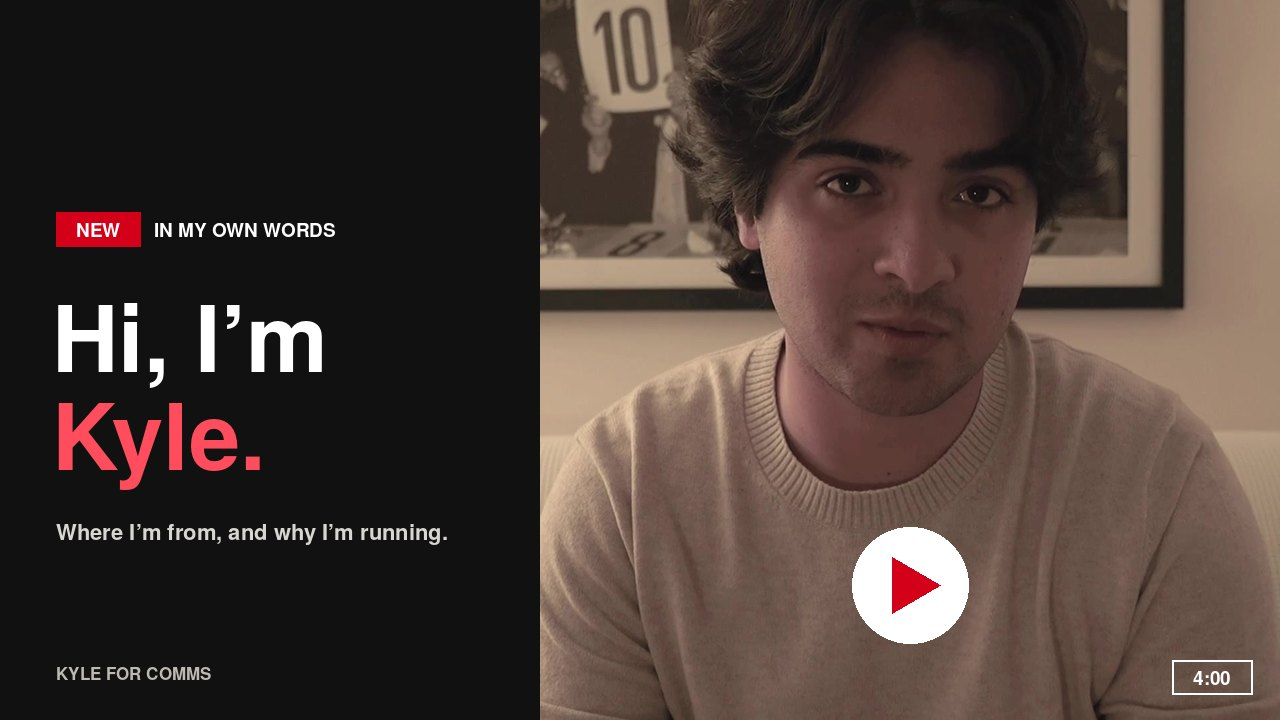
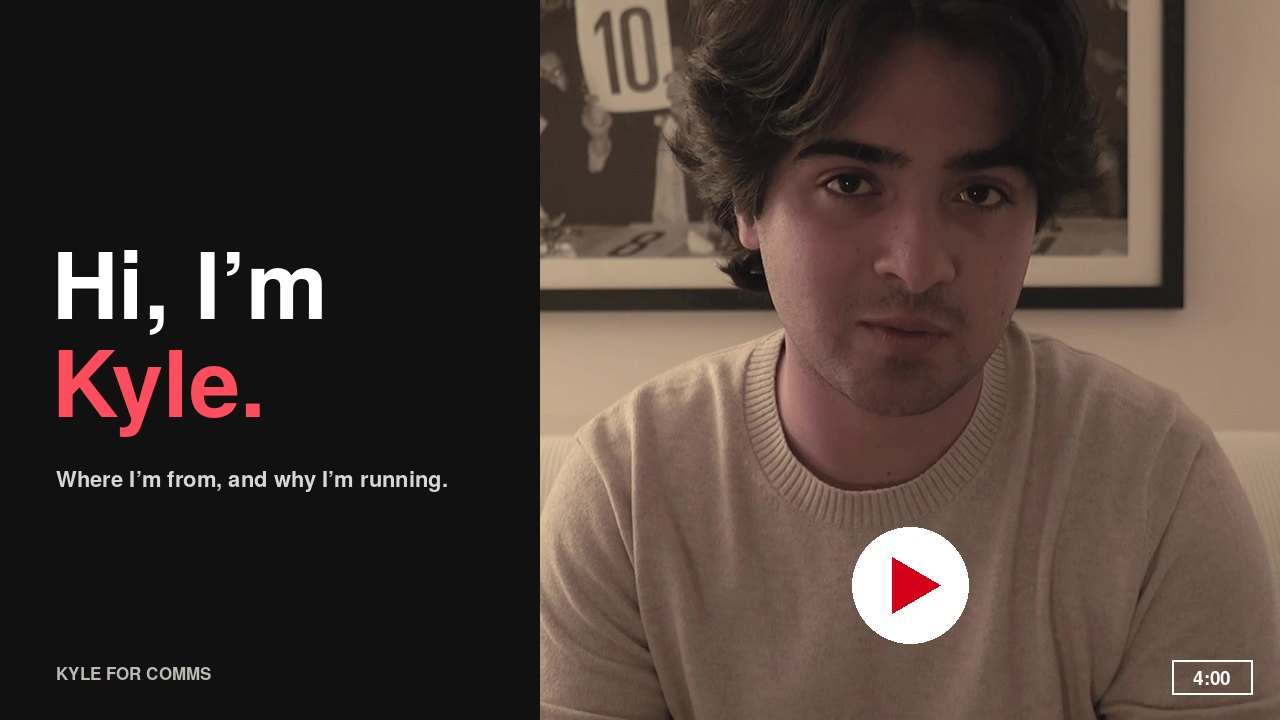
Friday email: cleaner video thumbnail, regraded photo layout, Kyle's intro edits
Claude-Session: https://claude.ai/code/session_014ULG1t1sxsBg2JzqtgTAWY

Changed region(s): [[0.0312, 0.275, 0.3438, 0.7028], [0.0312, 0.7333, 0.3438, 0.7639]]

diff --git a/email/fri/email5.html b/email/fri/email5.html
@@ -31,7 +31,7 @@
     .pic{padding:0 0 14px 0 !important}
     .pic img{height:auto !important}
     .gh{font-size:29px !important;letter-spacing:-.9px !important}
-    .pic2 img{max-width:100% !important}
+    .sq img{max-width:100% !important}
     .st{padding:10px 7px !important}
     .stn{font-size:24px !important;letter-spacing:-.6px !important}
     .toc{display:block !important;width:100% !important;box-sizing:border-box !important;padding:0 0 10px 0 !important}
@@ -73,28 +73,26 @@
   <!-- intro -->
   <tr><td class="px" style="padding:26px 28px 4px 28px;font-size:15.5px;line-height:1.62;">
     <p style="margin:0 0 12px 0;">Hi IOP,</p>
-    <p style="margin:0 0 12px 0;">On Monday I said I'd stop describing a better IOP newsletter and send you one instead. This week you got four issues, four videos, and nine programs, a few of which you might not have heard of before.</p>
-    <p style="margin:0 0 12px 0;">But I realized I never actually introduced myself. So tonight's video is just me, on my couch, talking about where I'm from, the week in high school that made me want to go into public service, and why I'm running.</p>
-    <p style="margin:0;">The short version: I walked into the IOP looking for people who wanted to make the world a better place, and I found them. I want everyone who walks in after me to find them too.</p>
+    <p style="margin:0 0 12px 0;">On Monday I said I'd stop describing a better IOP newsletter and send you one instead. This week you got three issues of these newsletters, a few new features on my website, and a greater look inside what I stand for.</p>
+    <p style="margin:0 0 12px 0;">But I realized I never actually introduced myself.</p>
+    <p style="margin:0 0 12px 0;">So I wanted to change that.</p>
+    <p style="margin:0;">The short version, I walked into the IOP with grand aspirations and beliefs about what I wanted to do with my life: serving others and making our world just that much better. What I found here was a community of people who wanted the same thing but maybe who got discouraged by the gap between their internal compass and the direction of the organization. I'm running to change that. To bring the IOP back to the hub of public service it can and should be.</p>
   </td></tr>
 
   <!-- video -->
   <tr><td class="px" style="padding:22px 28px 4px 28px;">
     <a href="https://kyle-for-comms.github.io/?v=hi#videos" style="display:block;text-decoration:none;"><img src="https://kyle-for-comms.github.io/email/fri/video-hi-im-kyle.jpg" width="544" alt="Watch: Hi, I'm Kyle. Where I'm from, and why I'm running (4:00)" style="display:block;width:100%;max-width:544px;height:auto;border:0;"></a>
-    <div style="font-size:12.5px;line-height:1.5;color:#555555;padding-top:10px;">Four minutes, just me. <a href="https://kyle-for-comms.github.io/?v=hi#videos" style="color:#d40019;font-weight:700;">Watch</a>.</div>
+    <div style="font-size:12.5px;line-height:1.5;color:#555555;padding-top:10px;"><a href="https://kyle-for-comms.github.io/?v=hi#videos" style="color:#d40019;font-weight:700;">Watch</a>.</div>
   </td></tr>
 
   <!-- photos -->
   <tr><td class="px" style="padding:30px 28px 4px 28px;">
-    <table role="presentation" width="100%" cellpadding="0" cellspacing="0" border="0"><tr>
-      <td style="border-bottom:3px solid #111111;padding-bottom:8px;font-weight:700;font-size:22px;letter-spacing:-.7px;line-height:1;">Before the campaign</td>
-      <td align="right" valign="bottom" class="hide-sm" style="border-bottom:3px solid #111111;padding-bottom:8px;font-size:13px;color:#555555;">The IOP I know</td>
+    <div style="border-bottom:3px solid #111111;padding-bottom:8px;font-weight:700;font-size:22px;letter-spacing:-.7px;line-height:1;">Before the campaign</div>
+    <img src="https://kyle-for-comms.github.io/email/fri/forum-wide.jpg" width="544" alt="Kyle moderating an IOP Forum with Jen Psaki and Dee Dee Myers" style="display:block;width:100%;max-width:544px;height:auto;border:0;margin-top:14px;">
+    <div style="font-size:12.5px;line-height:1.4;font-weight:700;padding-top:7px;">Moderating a Forum with Jen Psaki and Dee Dee Myers</div>
+    <table role="presentation" width="100%" cellpadding="0" cellspacing="0" border="0" style="margin-top:16px;"><tr>
+      <td class="sq" valign="top" width="33%" style="padding:0 8px 0 0;"><img src="https://kyle-for-comms.github.io/email/fri/sq-election.jpg" width="176" alt="Kyle at an election night watch party" style="display:block;width:100%;max-width:176px;height:auto;border:0;"><div style="font-size:12px;line-height:1.35;font-weight:700;padding-top:7px;color:#111111;">Election night watch party</div></td><td class="sq" valign="top" width="33%" style="padding:0 4px;"><img src="https://kyle-for-comms.github.io/email/fri/sq-carville.jpg" width="176" alt="Kyle with James Carville" style="display:block;width:100%;max-width:176px;height:auto;border:0;"><div style="font-size:12px;line-height:1.35;font-weight:700;padding-top:7px;color:#111111;">With James Carville</div></td><td class="sq" valign="top" width="33%" style="padding:0 0 0 8px;"><img src="https://kyle-for-comms.github.io/email/fri/sq-civics.jpg" width="176" alt="Kyle after a CIVICS teaching session" style="display:block;width:100%;max-width:176px;height:auto;border:0;"><div style="font-size:12px;line-height:1.35;font-weight:700;padding-top:7px;color:#111111;">After a CIVICS teaching session</div></td>
     </tr></table>
-    <table role="presentation" width="100%" cellpadding="0" cellspacing="0" border="0" style="margin-top:14px;">
-      <tr><td class="pic2" valign="top" width="50%" style="padding:0 7px 0 0;"><img src="https://kyle-for-comms.github.io/email/fri/forum.jpg" width="265" alt="Kyle moderating an IOP Forum with Jen Psaki and Dee Dee Myers" style="display:block;width:100%;max-width:265px;height:auto;border:0;"><div style="font-size:12.5px;line-height:1.4;font-weight:700;padding-top:7px;color:#111111;">Moderating a Forum with Jen Psaki and Dee Dee Myers</div></td><td class="pic2" valign="top" width="50%" style="padding:0 0 0 7px;"><img src="https://kyle-for-comms.github.io/email/fri/election-night.jpg" width="265" alt="Kyle at an election night watch party" style="display:block;width:100%;max-width:265px;height:auto;border:0;"><div style="font-size:12.5px;line-height:1.4;font-weight:700;padding-top:7px;color:#111111;">Election night watch party</div></td></tr>
-      <tr><td colspan="2" style="height:16px;line-height:16px;font-size:0;">&nbsp;</td></tr>
-      <tr><td class="pic2" valign="top" width="50%" style="padding:0 7px 0 0;"><img src="https://kyle-for-comms.github.io/email/fri/carville.jpg" width="265" alt="Kyle with James Carville" style="display:block;width:100%;max-width:265px;height:auto;border:0;"><div style="font-size:12.5px;line-height:1.4;font-weight:700;padding-top:7px;color:#111111;">With James Carville</div></td><td class="pic2" valign="top" width="50%" style="padding:0 0 0 7px;"><img src="https://kyle-for-comms.github.io/email/fri/civics.jpg" width="265" alt="Kyle after a CIVICS teaching session" style="display:block;width:100%;max-width:265px;height:auto;border:0;"><div style="font-size:12.5px;line-height:1.4;font-weight:700;padding-top:7px;color:#111111;">After a CIVICS teaching session</div></td></tr>
-    </table>
   </td></tr>
 
   <!-- platform -->
